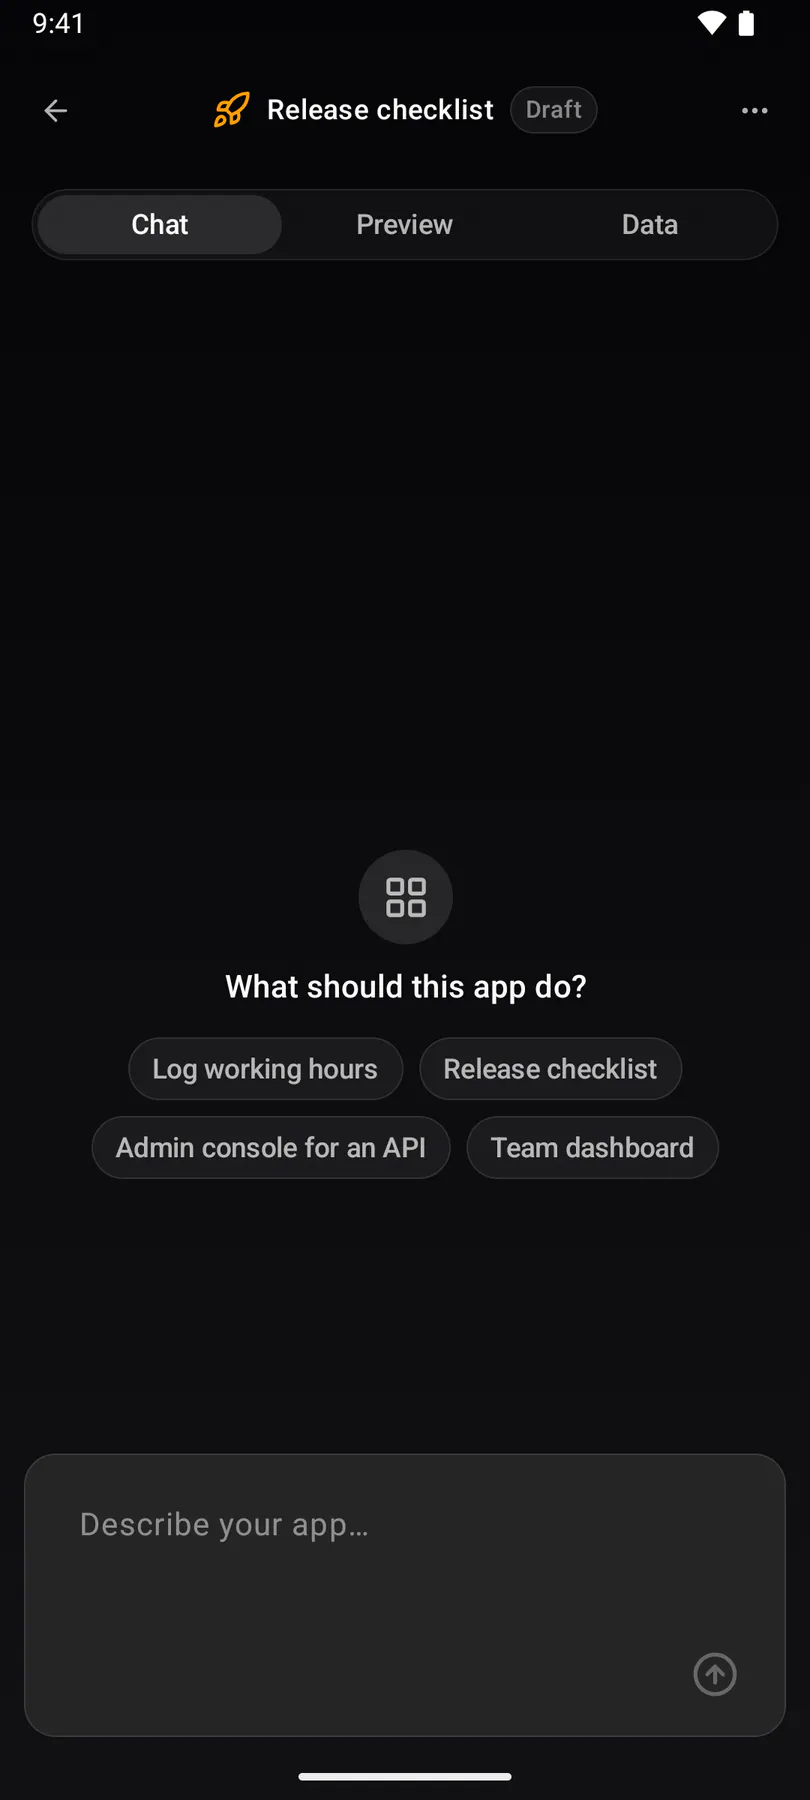
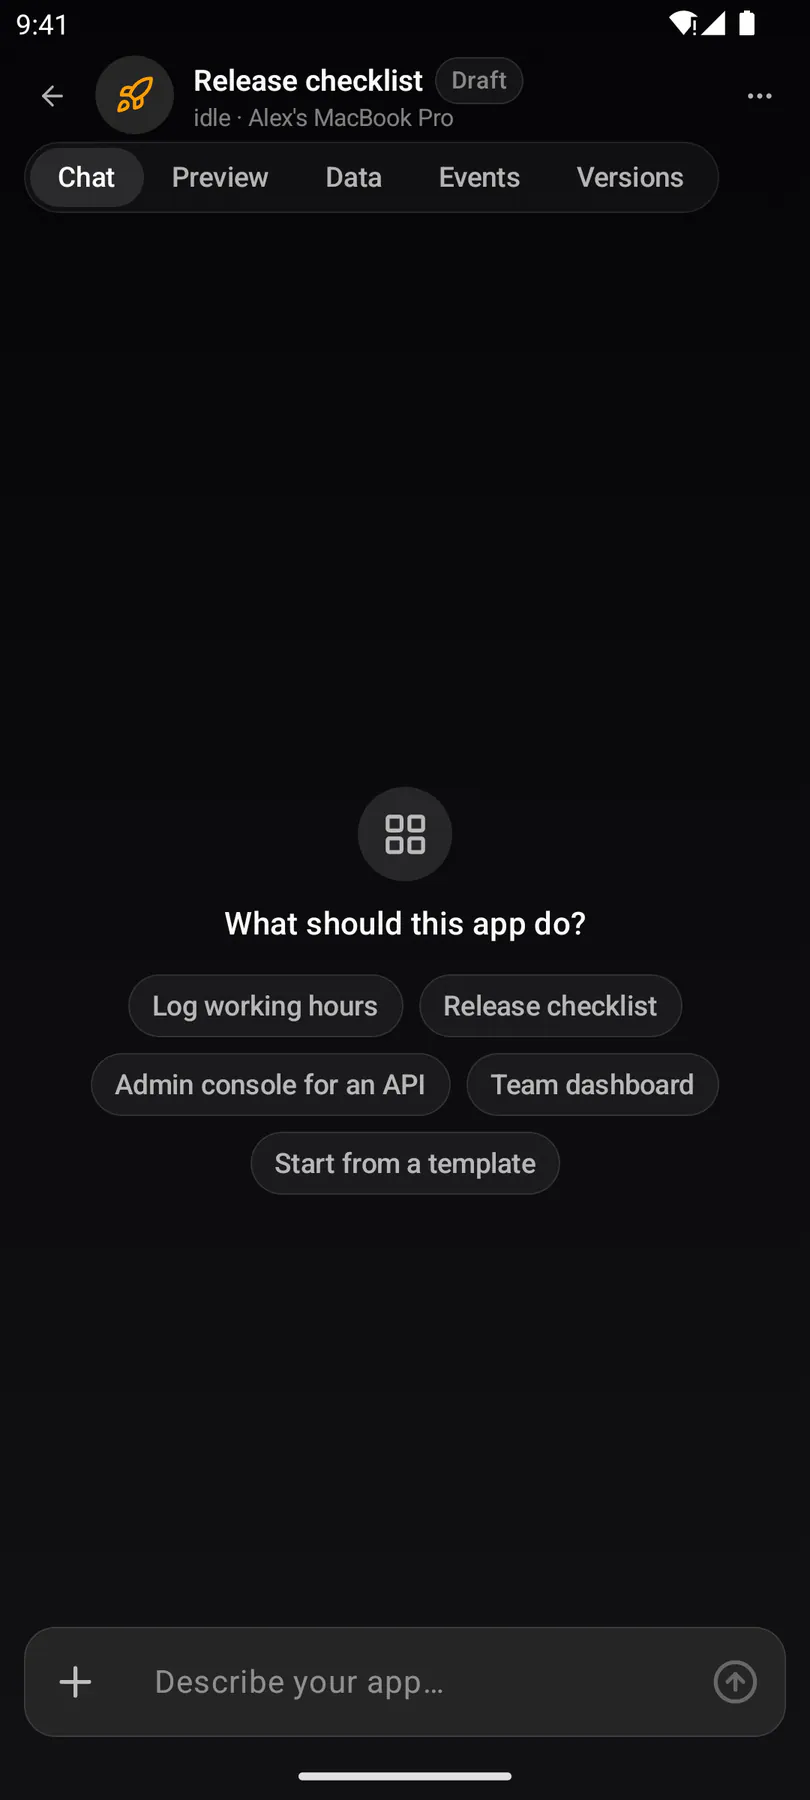
NEW-137 (shots): Android session-slash-menu and app-draft re-captured as the flat one-row composer
The Android session-slash-menu and app-draft shots predated #EXP-1762 and
still showed the two-row card. The session screen was already flat; the app
editor's composer was not (apps.json: THE COMPOSER is the session composer),
so it now passes flat = true like web and iOS.

diff --git a/apps/android/app/src/main/java/com/exponential/app/ui/apps/AppEditorScreen.kt b/apps/android/app/src/main/java/com/exponential/app/ui/apps/AppEditorScreen.kt
@@ -1112,6 +1112,9 @@ private fun AppChatPane(
                 }
                 GlassComposer(
                     modifier = Modifier.padding(horizontal = 12.dp, vertical = 8.dp),
+                    // #NEW-137 / #EXP-1762: the app editor's composer IS the
+                    // session composer (apps.json): the flat one-line card.
+                    flat = true,
                     tools = {
                         ComposerToolButton(
                             ExpIcons.uiAdd,
@@ -1146,7 +1149,6 @@ private fun AppChatPane(
                             .then(fieldModifier),
                         placeholder = placeholder,
                         enabled = deviceId != null,
-                        minLines = 2,
                         maxLines = 8,
                         bordered = false,
                     )
